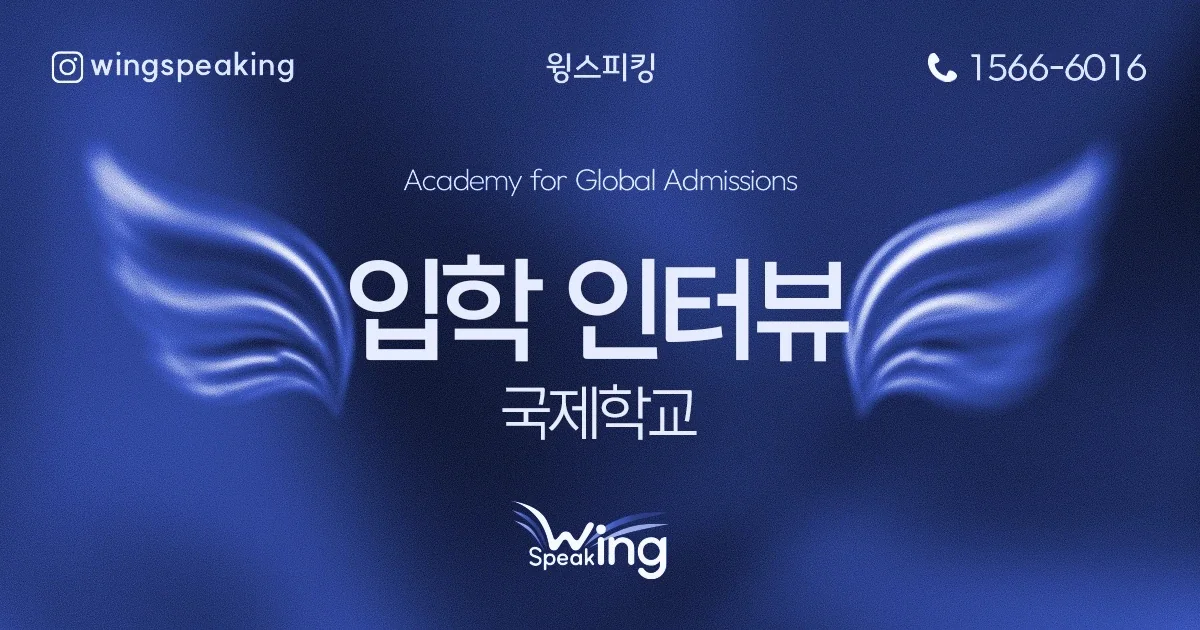
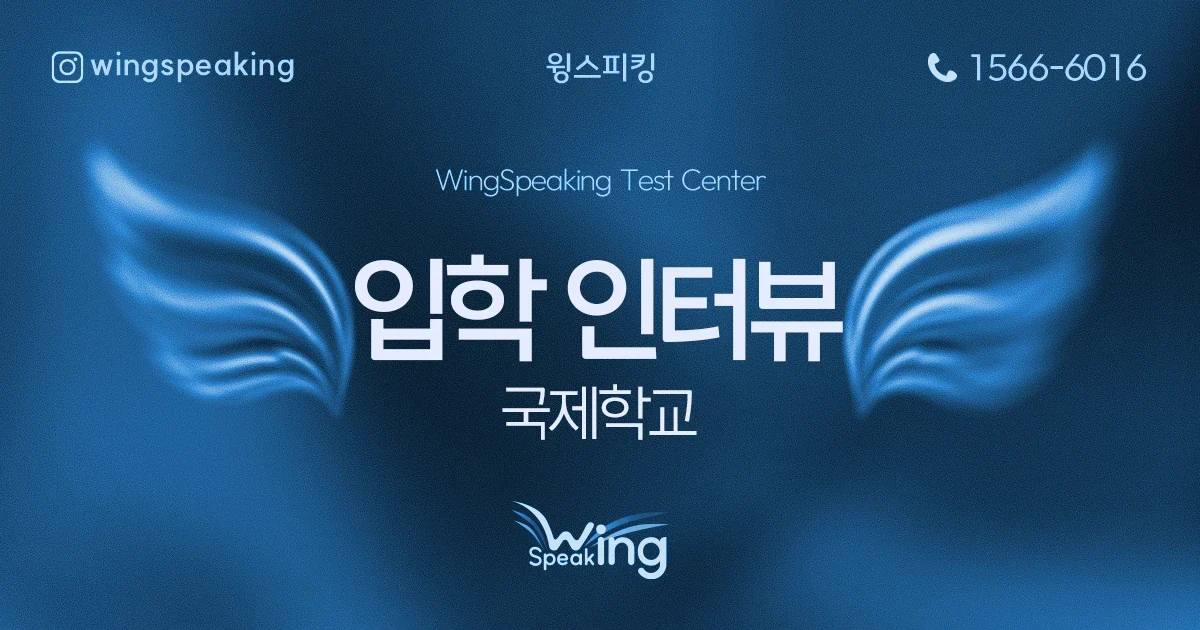
WingSpeaking: new interview image; Test Center as one row of three
Claude-Session: https://claude.ai/code/session_014BqGhY4ErY7f5qsFQT5aby

diff --git a/work/wingspeaking.html b/work/wingspeaking.html
@@ -140,9 +140,9 @@
             <p class="web__cap"><span>MAIN BANNER</span>홈페이지 메인 배너 — 과정마다 색을 바꾼 날개 그래픽</p>
             <div class="web__banners"><img decoding="async" src="../assets/work/wingspeaking/web/program/banner-departure.webp" alt="홈페이지 배너 — 출국 대비 Speaking" loading="lazy"><img decoding="async" src="../assets/work/wingspeaking/web/program/banner-academic.webp" alt="홈페이지 배너 — Academic Program · 대학 출국반" loading="lazy"><img decoding="async" src="../assets/work/wingspeaking/web/program/banner-student.webp" alt="홈페이지 배너 — 유학생 Speaking" loading="lazy"><img decoding="async" src="../assets/work/wingspeaking/web/program/banner-test.webp" alt="홈페이지 배너 — Test Center · 국제학교 입학 인터뷰" loading="lazy"><img decoding="async" src="../assets/work/wingspeaking/web/program/banner-junior.webp" alt="홈페이지 배너 — Junior Class · 출국반 기본기 종합강의" loading="lazy"><img decoding="async" src="../assets/work/wingspeaking/web/program/banner-junior-g.webp" alt="홈페이지 배너 — Junior Class for G9–G10" loading="lazy"></div>
             <p class="web__cap"><span>PROGRAM PAGE</span>과정 소개 페이지 대표 이미지</p>
-            <div class="web__thumbs"><img decoding="async" src="../assets/work/wingspeaking/web/program/page-main.webp?v=2" alt="과정 소개 이미지 — 윙스피킹 대표 이미지" loading="lazy"><img decoding="async" src="../assets/work/wingspeaking/web/program/page-departure.webp?v=2" alt="과정 소개 이미지 — 출국 대비" loading="lazy"><img decoding="async" src="../assets/work/wingspeaking/web/program/page-interview.webp" alt="과정 소개 이미지 — 국제학교 입학 인터뷰" loading="lazy"><img decoding="async" src="../assets/work/wingspeaking/web/program/page-student.webp?v=2" alt="과정 소개 이미지 — 유학생 Speaking" loading="lazy"><img decoding="async" src="../assets/work/wingspeaking/web/program/page-junior.webp?v=2" alt="과정 소개 이미지 — 주니어 종합강의" loading="lazy"><img decoding="async" src="../assets/work/wingspeaking/web/program/page-junior-g.webp?v=2" alt="과정 소개 이미지 — 주니어 출국반 G9–G10" loading="lazy"></div>
-            <p class="web__cap"><span>TEST CENTER</span>유학 시험센터 — DET · IELTS · 입학 인터뷰</p>
-            <div class="web__thumbs"><img decoding="async" src="../assets/work/wingspeaking/web/program/test-center.webp" alt="유학 시험센터 대표 이미지 — Test Center, DET · IELTS · INTERVIEW" loading="lazy"><img decoding="async" src="../assets/work/wingspeaking/web/program/test-ielts.webp" alt="시험센터 이미지 — IELTS 아이엘츠" loading="lazy"><img decoding="async" src="../assets/work/wingspeaking/web/program/test-duolingo.webp" alt="시험센터 이미지 — Duolingo English Test" loading="lazy"><img decoding="async" src="../assets/work/wingspeaking/web/program/test-interview.webp" alt="시험센터 이미지 — 국제학교 입학 인터뷰" loading="lazy"></div>
+            <div class="web__thumbs"><img decoding="async" src="../assets/work/wingspeaking/web/program/page-main.webp?v=2" alt="과정 소개 이미지 — 윙스피킹 대표 이미지" loading="lazy"><img decoding="async" src="../assets/work/wingspeaking/web/program/page-departure.webp?v=2" alt="과정 소개 이미지 — 출국 대비" loading="lazy"><img decoding="async" src="../assets/work/wingspeaking/web/program/page-interview.webp?v=2" alt="과정 소개 이미지 — 국제학교 입학 인터뷰" loading="lazy"><img decoding="async" src="../assets/work/wingspeaking/web/program/page-student.webp?v=2" alt="과정 소개 이미지 — 유학생 Speaking" loading="lazy"><img decoding="async" src="../assets/work/wingspeaking/web/program/page-junior.webp?v=2" alt="과정 소개 이미지 — 주니어 종합강의" loading="lazy"><img decoding="async" src="../assets/work/wingspeaking/web/program/page-junior-g.webp?v=2" alt="과정 소개 이미지 — 주니어 출국반 G9–G10" loading="lazy"></div>
+            <p class="web__cap"><span>TEST CENTER</span>유학 시험센터 — DET · IELTS</p>
+            <div class="web__thumbs"><img decoding="async" src="../assets/work/wingspeaking/web/program/test-center.webp" alt="유학 시험센터 대표 이미지 — Test Center, DET · IELTS · INTERVIEW" loading="lazy"><img decoding="async" src="../assets/work/wingspeaking/web/program/test-ielts.webp" alt="시험센터 이미지 — IELTS 아이엘츠" loading="lazy"><img decoding="async" src="../assets/work/wingspeaking/web/program/test-duolingo.webp" alt="시험센터 이미지 — Duolingo English Test" loading="lazy"></div>
           </div>
           <div class="web__tools">
             <div><span>DESIGN</span><ul class="chips"><li>Figma</li><li>Adobe XD</li><li>Photoshop</li><li>Illustrator</li></ul></div>
